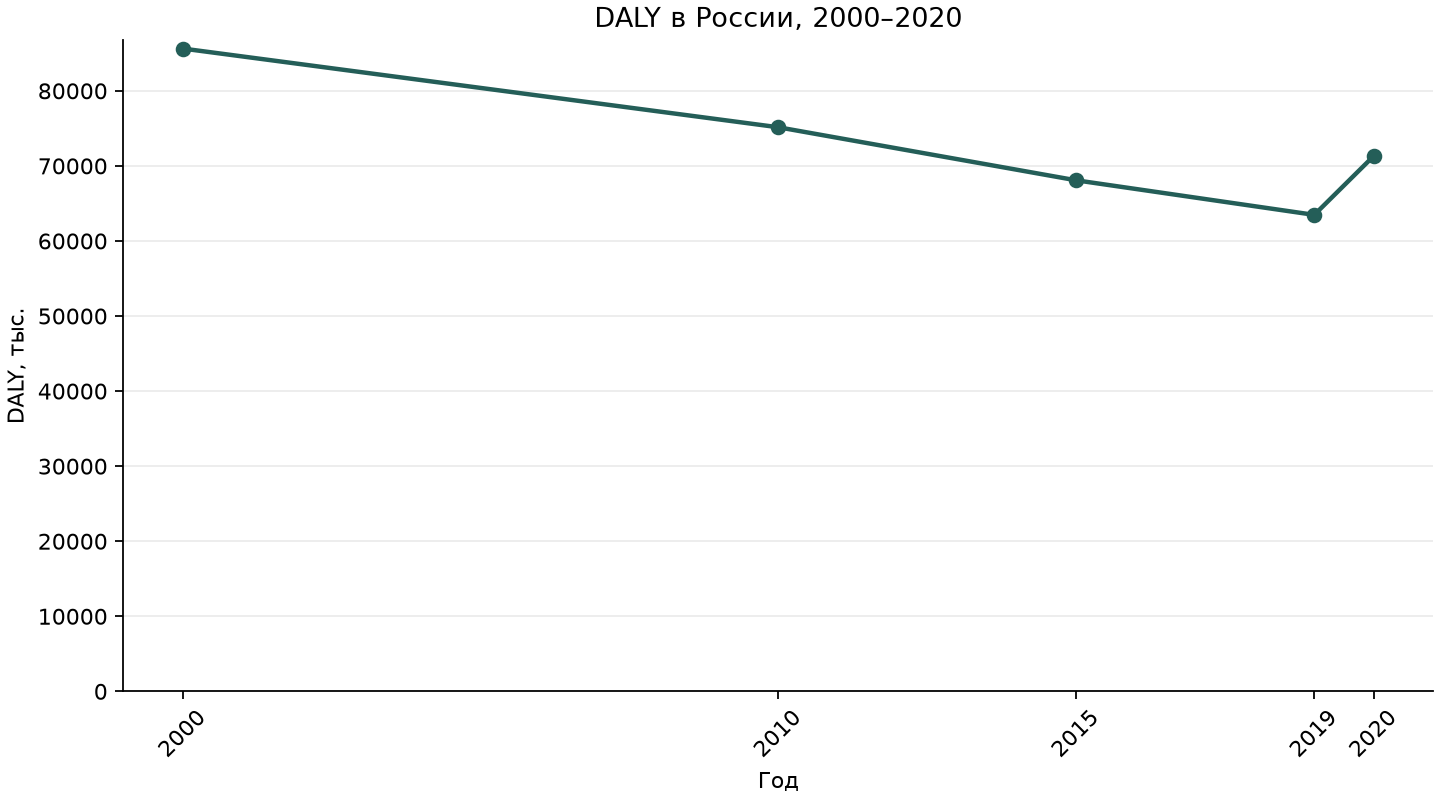
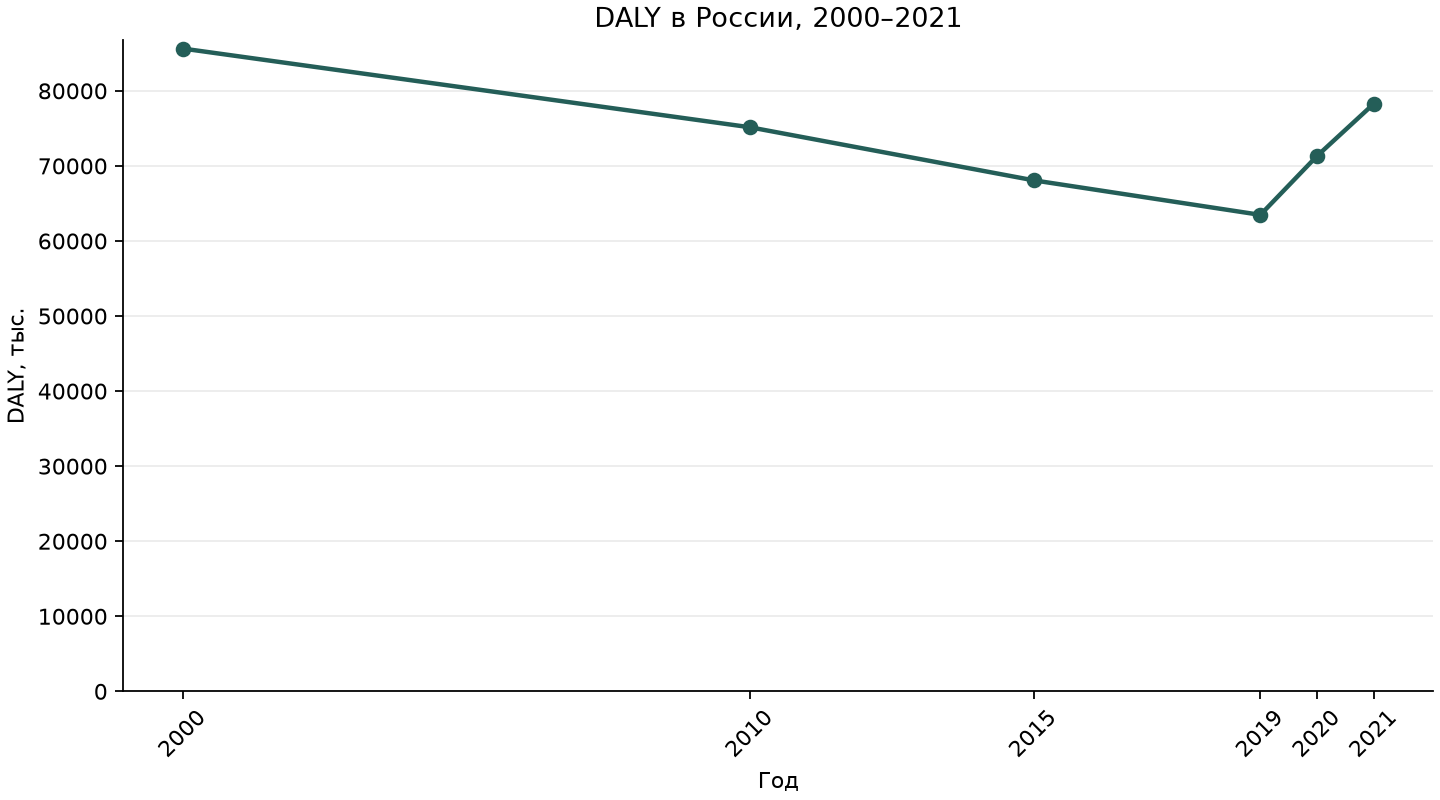
Подготовить результаты v1.1

diff --git a/docs/lab2/p5/index.md b/docs/lab2/p5/index.md
@@ -3,11 +3,10 @@
 Практическое задание: опубликовать две версии результатов, добавить переключатель
 и алиас `latest`, настроить публикацию по Git-тегу и проверить русский поиск.
 
-**Сейчас подготовлены результаты для v1.0.** Версия ещё не опубликована;
-Переключатель настроен и проверяется на отдельном локальном стенде с двумя версиями.
-Внешняя публикация и автоматизация по тегам ещё не выполнены.
+**Подготовлены результаты для v1.0 и v1.1.** Версия v1.1 добавляет оценку за
+2021 год; публикация выполняется по тегам через GitHub Actions.
 
-[Посмотреть таблицу и график за 2000–2020 годы](results.md).
+[Посмотреть таблицу и график за 2000–2021 годы](results.md).
 
 ## Что сравниваем
 
@@ -66,9 +65,8 @@ uv run --group docs mkdocs build --strict
 | latest | Перенаправление на v1.1 |
 | Корень сайта | Перенаправление на latest |
 
-Это проверка механизма версий, а не подтверждение публикации на GitHub Pages
-или SourceCraft. Публикация по тегам и пять проверок русского поиска остаются
-следующими частями задания.
+Публикация по тегам и пять проверок русского поиска остаются следующими
+частями задания.
 
 ## Источник и условия использования
 

diff --git a/docs/lab2/p5/results.md b/docs/lab2/p5/results.md
@@ -1,4 +1,4 @@
-# DALY в России: 2000–2020
+# DALY в России: 2000–2021
 
 Оба пола, все возрасты, все причины. DALY указаны в тысячах.
 
@@ -9,6 +9,7 @@
 | 2015 | 68082.57 | -20.49 |
 | 2019 | 63477.24 | -25.87 |
 | 2020 | 71327.53 | -16.70 |
+| 2021 | 78278.86 | -8.58 |
 
 ![Динамика абсолютного объёма DALY в России](daly.png)
 
